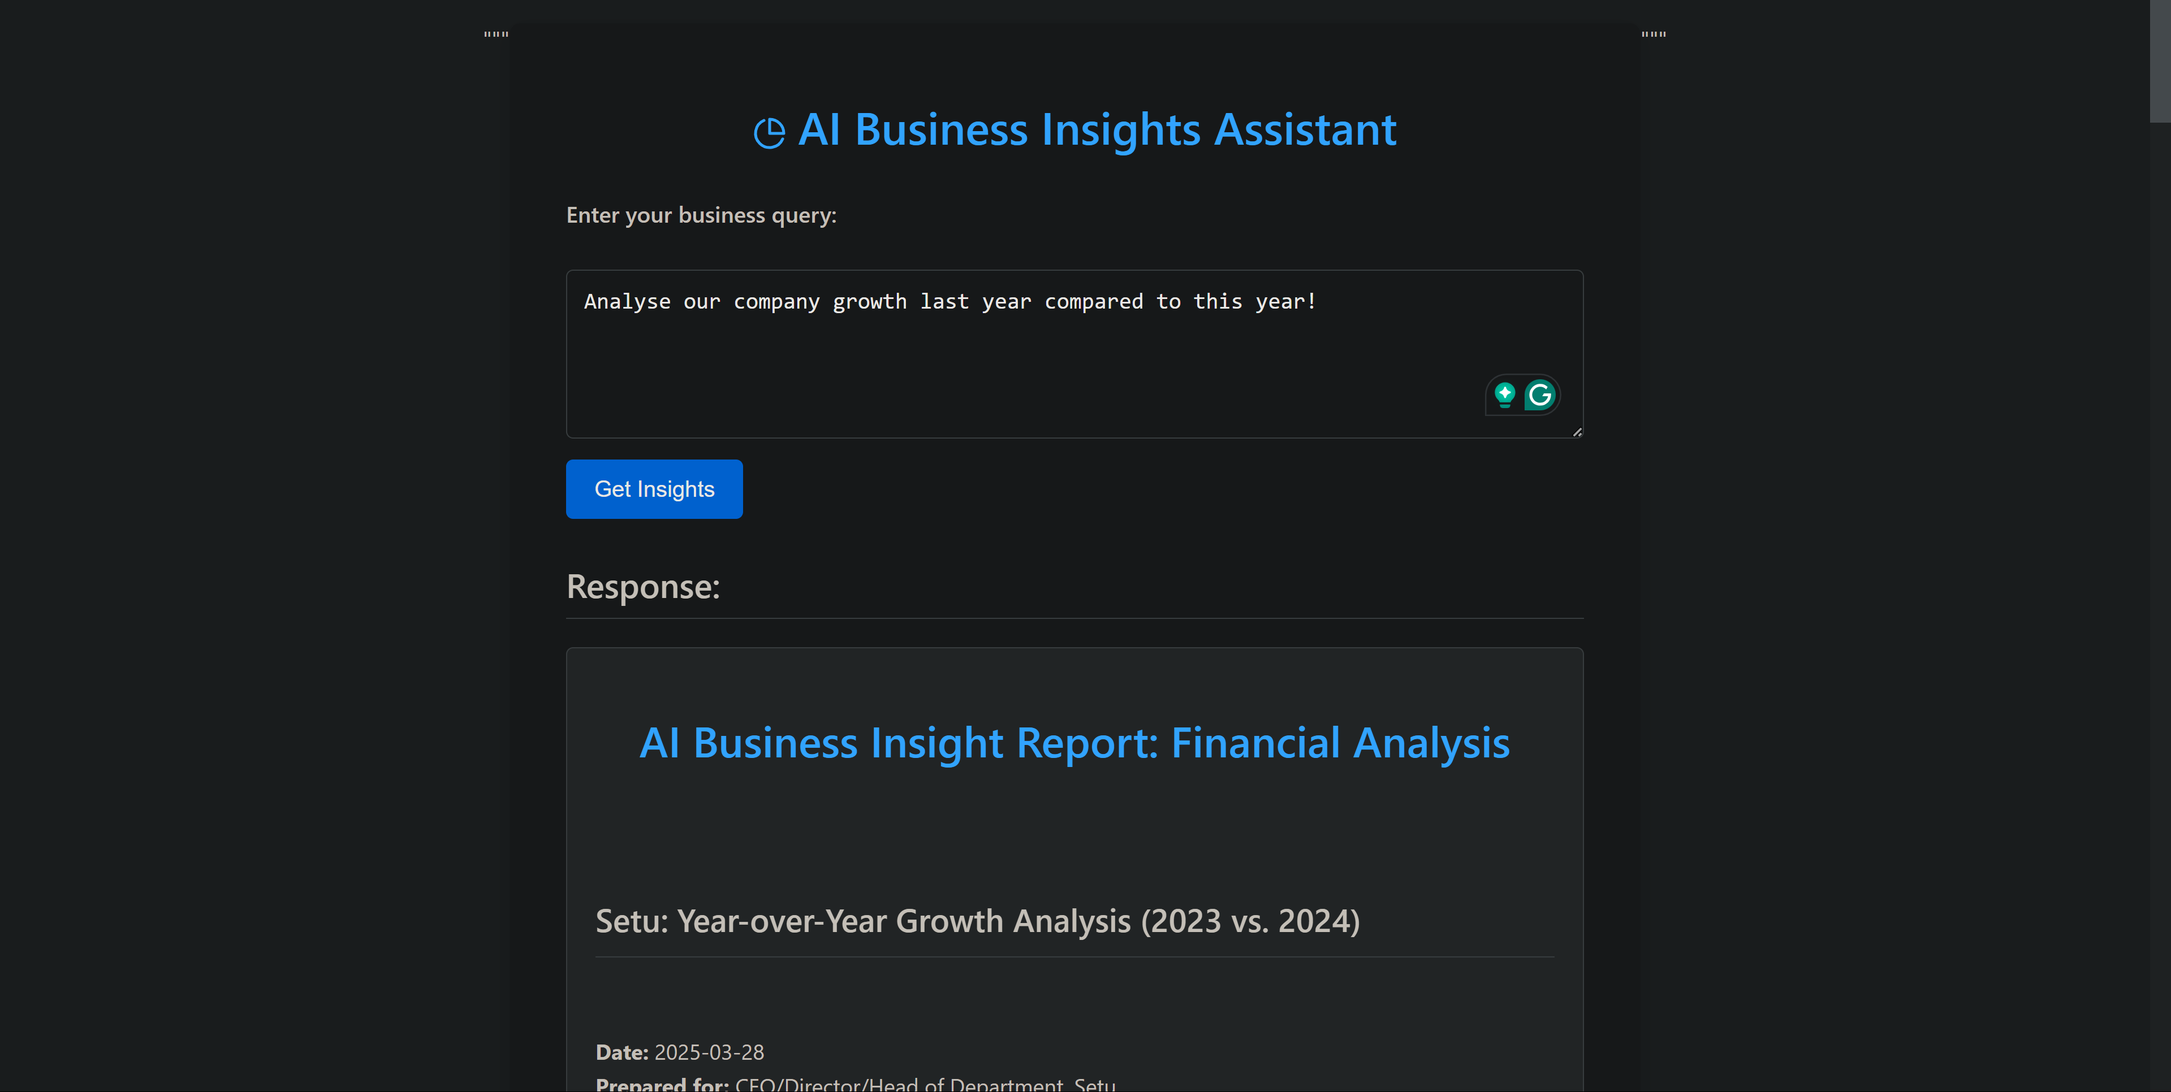
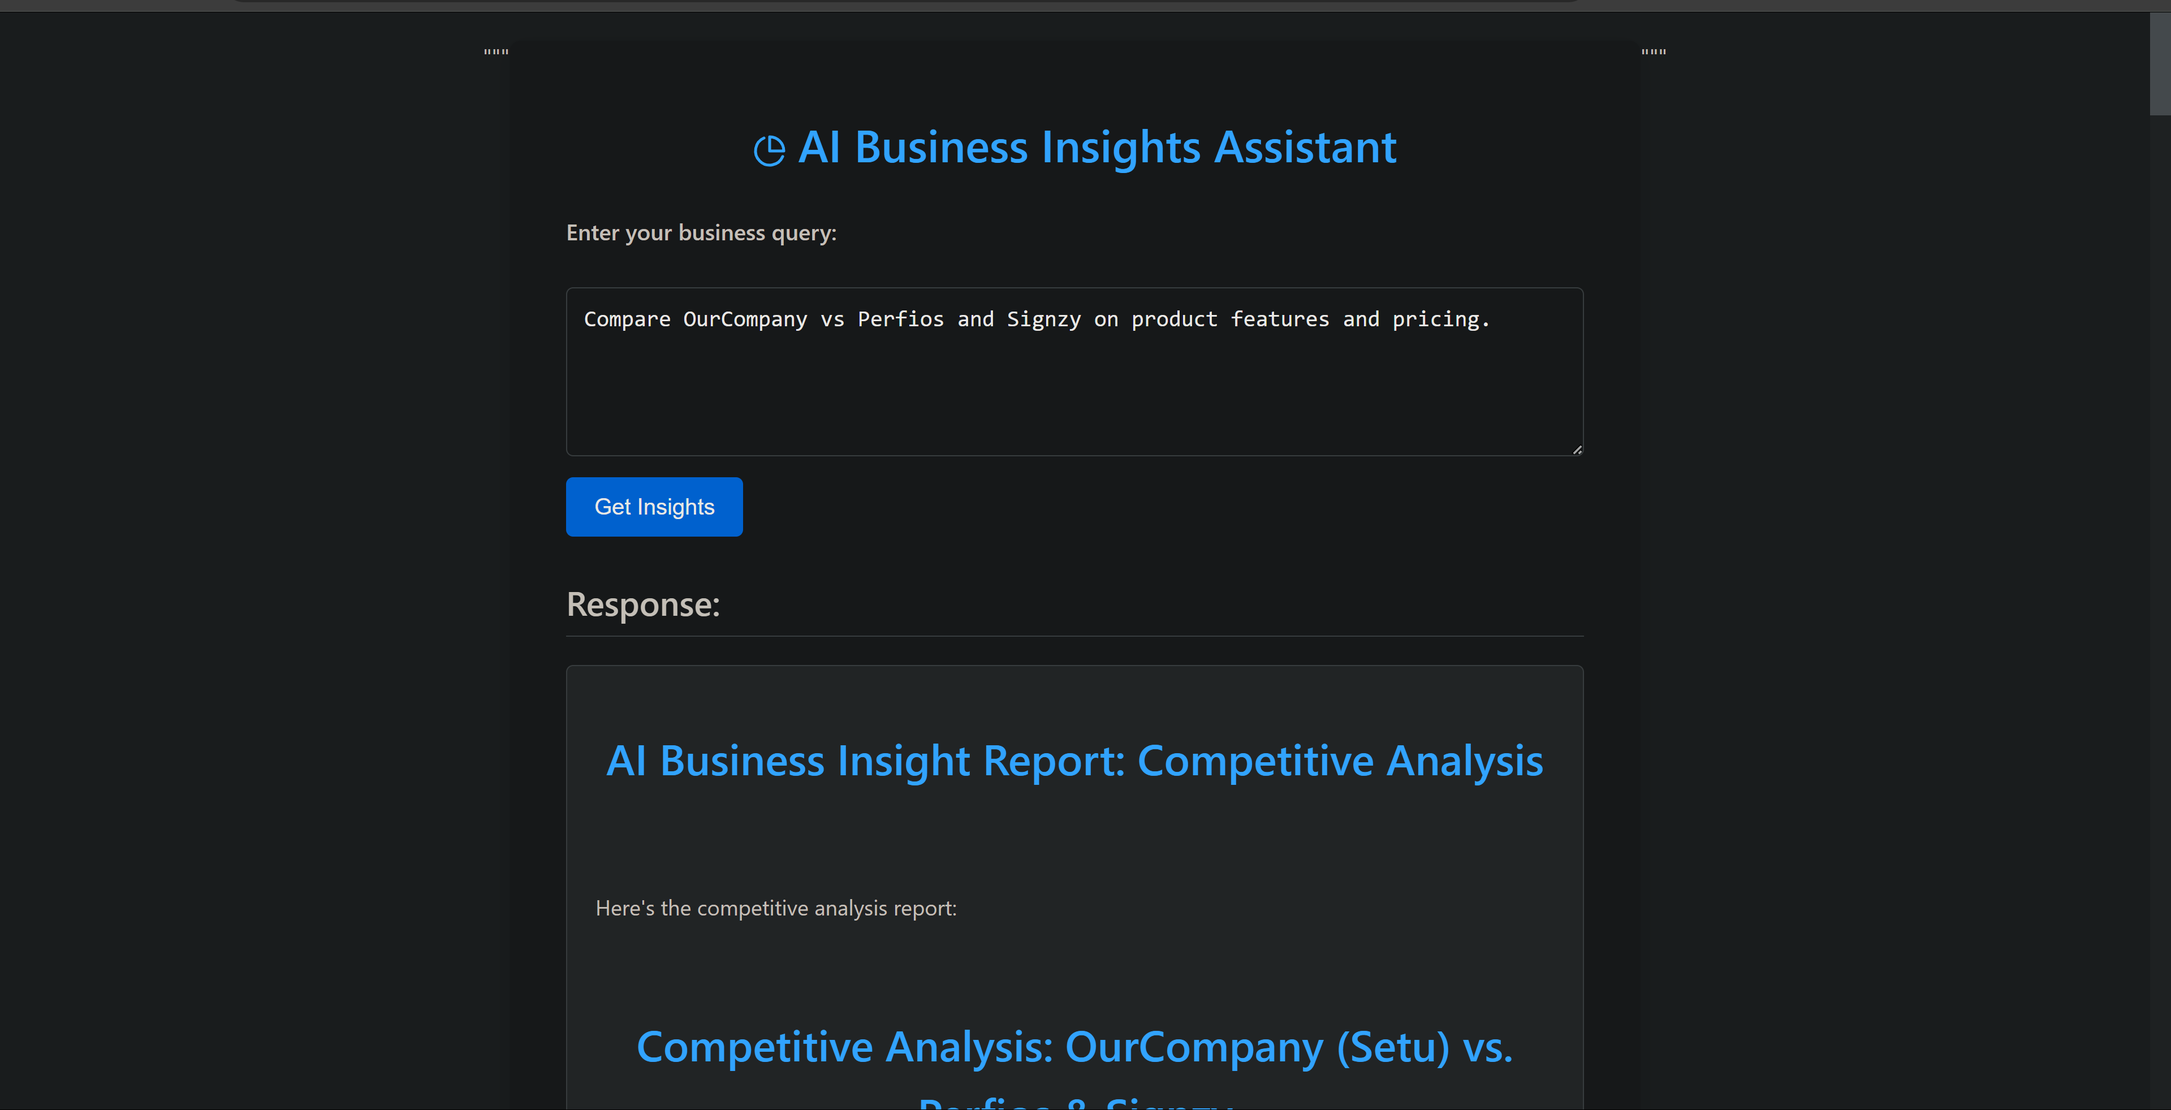
Update environment variables, add date to prompt analysis, and clean up test files

diff --git a/src/assistant/gemini_integration.py b/src/assistant/gemini_integration.py
@@ -54,7 +54,6 @@ class GeminiClient:
 
             if attempt < max_retries:
                 logger.info(f"Retrying Gemini call (attempt {attempt + 2}/{max_retries + 1})...")
-                # Optional: Add a small delay before retrying
                 # import time
                 # time.sleep(1)
             else:

diff --git a/src/assistant/prompt_engineering.py b/src/assistant/prompt_engineering.py
@@ -34,6 +34,8 @@ def get_query_analysis_prompt(query, business_profile):
     The assistant serves a mid-size enterprise with the following profile:
     {profile_str}
 
+    **DATE:** "{datetime.datetime.now().strftime('%Y-%m-%d')}"
+
     **User Query:**
     "{query}"
 

diff --git a/tests/test_gemini_integration.py b/tests/test_gemini_integration.py
@@ -1,0 +1,2 @@
+# src/test/test_gemini_intrgrition.py
+

diff --git a/tests/test_prompt_engineering.py b/tests/test_prompt_engineering.py
@@ -1,0 +1,1 @@
+# src/test/test_prompt_engineering.py

diff --git a/assets/business_insights_report.md b/assets/business_insights_report.md
@@ -1,87 +1,119 @@
-# AI Business Insight Report: Financial Analysis
+# AI Business Insight Report: Competitive Analysis
 
-## Setu: Year-over-Year Growth Analysis (2023 vs. 2024)
+Here's the competitive analysis report:
 
-**Date:** 2025-03-28
-**Prepared for:** CEO/Director/Head of Department, Setu
-**Prepared by:** Strategos, AI Business Insights Assistant
+# Competitive Analysis: OurCompany (Setu) vs. Perfios & Signzy
 
-### 1. Understanding the Query
+**Date:** 2025-03-29
 
-The user query requests an analysis of Setu's growth performance in the past year (2024) compared to the previous year (2023).  The objective is to understand the extent and nature of Setu's growth, identify areas of strength and weakness, and inform future strategic decisions. This analysis will consider financial performance, employee growth, and market trends within the financial services industry, especially concerning APIs and open banking.
+## Executive Summary
 
-### 2. Key Concepts
+OurCompany (Setu) faces strong competition from Perfios and Signzy in the financial services API space. Perfios boasts a broader product suite and larger market presence, while Signzy excels in automated onboarding and identity verification. Setu's strength lies in its payment infrastructure, particularly UPI, and Account Aggregator services. To thrive, Setu must focus on differentiating through superior UPI functionality, targeted niche markets, and potentially strategic partnerships. Key strategic recommendations involve expanding UPI offerings, bolstering customer support and onboarding, and exploring partnerships to broaden product capabilities.
 
-*   **Growth:**  Increase in key business metrics such as revenue, customer base, market share, employee count, and profitability.
-*   **Year-over-Year (YoY) Growth:** A comparison of a specific metric between one year and the previous year, expressed as a percentage.  It provides a clear indication of progress and trend.
-*   **Financial Services API:** Application Programming Interfaces that enable different financial systems to communicate and exchange data, facilitating innovation and efficiency.
-*   **Open Banking:** A system that allows customers to share their financial data securely with third-party providers, enabling personalized services and competition.
-*   **Account Aggregator (AA):** An entity licensed by the RBI to collect and consolidate financial information of a user from various financial institutions based on user consent.
-*   **UPI (Unified Payments Interface):** An instant real-time payment system developed by the National Payments Corporation of India (NPCI).
-*   **BBPS (Bharat Bill Payment System):** An integrated bill payment system in India offering interoperable and accessible bill payment service to customers.
+## Methodology
 
-### 3. Structured Analysis
+This analysis is based on publicly available information, including search results provided, general industry knowledge, and the provided business profile for OurCompany (Setu). Market share estimates are directional and based on available data, not proprietary information.
 
-Given the limited direct financial data available in the provided search results, this analysis will rely on broader industry trends and inferences based on Setu's business model and available information. A more detailed analysis would require access to Setu's internal financial records.
+## Competitor Profiles
 
-#### 3.1 Financial Performance
+### OurCompany (Setu)
 
-*   **Revenue Growth:**  Direct revenue figures for Setu in 2023 and 2024 are not available in the search results. However, the *Inc42* article mentions that in FY23, Setu spent INR 5.6 to earn every rupee. This indicates a potentially high cost of customer acquisition or operational inefficiencies in 2023.  A key question is whether this ratio improved in 2024.  Without more data, determining revenue growth is difficult. However, the broader fintech landscape offers some clues.
-    *   The *McKinsey* report indicates that the banking industry generated over $6.5 trillion in revenues in 2022 with year-over-year growth. This indicates a generally healthy market environment.
-    *   *BCG* reports that global payments revenue reached $1.6 trillion in 2022, but growth is expected to slow to 6.2% annually through 2027.
-*   **Market Share:** Assessing Setu's market share in the financial services API space is challenging without specific data. The API market is competitive.  The *Tracxn* profile notes that Setu has 659 competitors.
-*   **Account Aggregator Market:** The Account Aggregator market is experiencing strong growth. *Business Research Insights* forecasts a CAGR of 15.4% from 2024-2032, reaching $6.4 billion by 2032. This presents a significant opportunity for Setu, assuming it is active in this area.
-*   **UPI and BBPS Trends:** UPI transaction volume continues to see significant growth, with the *Financial Express* reporting a 56% YoY volume growth in H2 2023. The *digipay.gov.in* data shows consistent growth in BBPS transaction volume between 2022 and 2023. As a player in the financial services API sector, Setu would likely benefit from these trends.
+*   **Key Offerings & Target Market:** API solutions for financial onboarding (KYC, Aadhaar/PAN verification), Payment infrastructure (BBPS, UPI payment links), Account Aggregator services. Targets fintechs, banks, and businesses requiring embedded financial solutions.
+*   **Recent News/Developments:** Focus on UPI-powered mandates and BBPS platform [1][3]. Initiative for loan repayments and other API initiatives with banks.
+*   **Perceived Strengths:** Strong UPI infrastructure and integration [1][3]. Growing from 51-200 employees in 2020 to 201-500 currently [3][5] indicates growth.
+*   **Perceived Weaknesses:** Smaller size compared to Perfios. May lack the breadth of offerings and established reputation of competitors.
 
-**Challenges:**  The lack of specific financial data for Setu is a major limitation.  Reliance on industry trends provides a general context but does not offer a precise picture of Setu's performance.
+### Perfios
 
-#### 3.2 Employee Growth
+*   **Key Offerings & Target Market:** Financial data analysis software & tools, SME lending solutions, real-time credit decisioning, onboarding automation, due diligence, monitoring, and litigation automation. Targets financial institutions for decision-making and analytics.
+*   **Recent News/Developments:** Focus on adapting to market changes [1]. Expanding product offerings and maintaining a strong presence in the SaaS-based B2B fintech space [3].
+*   **Perceived Strengths:** Extensive product suite, large customer base (900+ FIs) [3], established market presence, strong financial data analysis capabilities [2].
+*   **Perceived Weaknesses:** Customer reviews are mixed, with some expressing concerns [2]. Potentially higher complexity due to the breadth of offerings.
 
-*   The initial business profile context indicates that Setu grew from 51-200 employees in 2020. Determining employee growth between 2023 and 2024 requires internal data. However, given the growth in the fintech and API space, it's reasonable to assume that Setu experienced some employee growth.
+### Signzy
 
-**Impact of Size:**  As a mid-size company (201-500 employees), Setu likely faces different challenges than larger corporations.  It needs to balance agility and innovation with the need for structured processes and scalability.
+*   **Key Offerings & Target Market:** Digital onboarding, identity verification, and monitoring solutions across 180+ countries. Targets financial institutions and businesses seeking to automate KYC/AML processes and streamline customer onboarding.
+*   **Recent News/Developments:** Emphasis on no-code GO platform for customizable workflows [3]. Focus on AI-powered solutions and real-time verification features [2].
+*   **Perceived Strengths:** Strong focus on digital onboarding and identity verification, AI-powered solutions, customizable workflows, and a no-code platform [3]. Real time verification [2].
+*   **Perceived Weaknesses:** Customer support reviews are mixed [1][2][3]. Potentially less comprehensive in areas outside of onboarding and identity verification.
 
-#### 3.3 Strategic and Operational Growth
+## Comparative Analysis
 
-*   **API Adoption:**  The *Finastra* survey shows high enthusiasm for technological change in the financial services industry, indicating a favorable environment for API adoption. *McKinsey* notes that becoming proficient with APIs is a top objective for most banks.
-*   **Open Banking Growth:** The *Grand View Research* report forecasts a CAGR of 29.8% for the open banking market in India from 2024-2030. This indicates a significant opportunity for Setu to expand its offerings and customer base.
-*   **Regulatory Landscape:**  The *Business Standard* highlights several regulatory changes in India in 2023. Setu needs to adapt to evolving regulations, such as those related to data privacy and security. The *Grant Thornton* report also points out the impact of the DPDP Act 2023 on the financial services sector.
-*   **D91 Labs:** Setu's association with D91 Labs, an open-source initiative, suggests a commitment to financial inclusion and innovation.  This can be a competitive advantage by providing insights and solutions tailored to the Indian market.
+**Product Features & Innovation Pace:** Perfios offers the broadest range of features, covering financial data analysis, lending solutions, and automation. Signzy specializes in digital onboarding and identity verification, leveraging AI. Setu excels in UPI infrastructure and BBPS. Innovation pace appears high across all three, with Perfios focused on adapting to market changes, Signzy on AI-driven solutions, and Setu on enhancing its UPI offerings.
 
-**Challenges:**  Competition in the API and open banking space is intense.  Setu needs to differentiate its offerings and demonstrate clear value to customers. Adapting to regulatory changes can be costly and time-consuming.
+**Pricing Tiers & Value Proposition:** Perfios and Signzy offer subscription-based pricing models, with Perfios emphasizing customized pricing based on business needs. Setu's pricing is not explicitly detailed in the provided search results but likely follows a similar API-based model. Perfios' value proposition centers on comprehensive financial data management, Signzy's on streamlined onboarding, and Setu's on reliable UPI infrastructure and payment solutions.
 
-### 4.  Mid-Size Enterprise Context
+**Go-to-Market Strategy (Sales channels, Marketing approach):** Perfios targets large financial institutions through direct sales and partnerships. Signzy focuses on a broader market, including fintechs, with an emphasis on API integration and a no-code platform. Setu's strategy appears to involve partnerships with banks and fintechs to integrate its UPI and BBPS solutions.
 
-For a mid-size company like Setu, the following considerations are particularly relevant:
+**Customer Reviews & Brand Perception:** Perfios has mixed customer reviews, with some concerns raised [2]. Signzy also has mixed customer reviews [1][2][3]. The provided search results do not offer direct customer reviews for Setu.
 
-*   **Resource Allocation:**  Growth requires careful allocation of resources. Setu needs to prioritize investments in areas with the highest potential return, such as API development, customer acquisition, and compliance.
-*   **Scalability:**  As Setu grows, it needs to ensure that its infrastructure and processes can scale efficiently. This includes investing in technology, training employees, and optimizing operations.
-*   **Talent Acquisition:**  Attracting and retaining skilled employees is crucial for success. Setu needs to offer competitive compensation and benefits, as well as opportunities for professional development.
-*   **Strategic Partnerships:**  Collaborating with other companies can help Setu expand its reach and capabilities. This could include partnerships with banks, fintech companies, or technology providers.
+**Estimated Market Share / Position:** Perfios likely holds a larger market share due to its established presence and broader product suite. Signzy is a strong player in the digital onboarding space. Setu is growing rapidly but is still smaller than its competitors.
 
-### 5. Actionable Recommendations
+## SWOT Analysis (Derived)
 
-Based on the analysis, here are some actionable recommendations for Setu:
+**Strengths:**
 
-1.  **Conduct Internal Growth Analysis:**  Perform a detailed analysis of Setu's financial performance, employee growth, and customer acquisition costs for 2023 and 2024.  Identify key drivers of growth and areas for improvement. This is the most crucial step.
-2.  **Refine Market Positioning:**  Given the competitive landscape, clearly define Setu's target market and value proposition. Focus on specific niches within the financial services API space where Setu can differentiate itself.
-3.  **Invest in API Development:**  Continue to invest in developing innovative and user-friendly APIs that meet the evolving needs of customers.  Focus on areas such as open banking, account aggregation, and payment solutions.
-4.  **Strengthen Regulatory Compliance:**  Stay up-to-date on regulatory changes and ensure that Setu's operations are fully compliant. Invest in compliance training and technology.
-5.  **Leverage D91 Labs:**  Utilize the insights and resources from D91 Labs to develop financial inclusion solutions tailored to the Indian market. This can be a key differentiator.
-6.  **Monitor Key Performance Indicators (KPIs):** Track the following KPIs to measure Setu's growth and performance:
-    *   **Revenue Growth Rate:**  Percentage increase in revenue from 2023 to 2024.
-    *   **Customer Acquisition Cost (CAC):**  Cost of acquiring a new customer.
-    *   **Customer Lifetime Value (CLTV):**  Projected revenue generated by a customer over their relationship with Setu.
-    *   **API Usage Rate:**  Number of API calls per customer per month.
-    *   **Employee Growth Rate:** Percentage increase in employee count from 2023 to 2024.
-    *   **Market Share:**  Estimate Setu's market share in key segments of the financial services API market.
-7. **Explore Strategic Partnerships:** Identify and pursue strategic partnerships with complementary businesses to expand market reach and service offerings. This can be instrumental for a mid-sized company to compete effectively.
+*   Strong UPI infrastructure and integration.
+*   Growing company with a focus on fintech solutions.
 
-**Considerations:**
+**Weaknesses:**
 
-*   **Data Availability:**  The accuracy and completeness of this analysis are limited by the availability of data.  Access to Setu's internal financial records is essential for a more detailed and accurate assessment.
-*   **Market Volatility:**  The financial services industry is subject to rapid change and market volatility. Setu needs to be agile and adaptable to respond to changing conditions.
-*   **Competition:**  The API and open banking space is highly competitive. Setu needs to continuously innovate and differentiate itself to stay ahead of the competition.
+*   Smaller size and potentially limited resources compared to Perfios.
+*   Less comprehensive product suite than Perfios.
+*   Brand recognition may be lower than Perfios and Signzy.
+
+**Opportunities:**
+
+*   Expand UPI-based services and solutions.
+*   Focus on specific niche markets (e.g., embedded finance for specific industries).
+*   Leverage the Account Aggregator framework for data-driven services.
+*   Strategic partnerships to broaden product capabilities.
+
+**Threats:**
+
+*   Intense competition from larger, more established players like Perfios and Signzy.
+*   Rapid technological changes in the fintech space.
+*   Evolving regulatory landscape.
+
+## Strategic Differentiators & Actionable Recommendations
+
+To thrive against Perfios and Signzy, Setu needs to focus on differentiation and strategic growth:
+
+1.  **Enhance UPI Functionality & Offerings:**
+    *   **Action:** Develop advanced UPI features beyond basic payment links, such as recurring payments, mandate management, and integrated reconciliation tools.
+    *   **Rationale:** Leverage Setu's existing strength in UPI to create a clear differentiator.
+    *   **KPI:** Increase UPI transaction volume by 30% in the next year.
+
+2.  **Targeted Niche Markets:**
+    *   **Action:** Identify specific industries or use cases where Setu's API solutions can provide a unique value proposition (e.g., embedded finance for e-commerce platforms, automated payments for logistics companies).
+    *   **Rationale:** Avoid direct competition with Perfios and Signzy across their entire product range by focusing on specific verticals.
+    *   **KPI:** Secure 3-5 key clients in a target niche market within the next 6 months.
+
+3.  **Improve Customer Support & Onboarding:**
+    *   **Action:** Invest in improved documentation, dedicated support channels, and streamlined onboarding processes.
+    *   **Rationale:** Address a potential weakness and improve customer satisfaction.
+    *   **KPI:** Reduce customer support ticket resolution time by 20%.
+
+4.  **Strategic Partnerships:**
+    *   **Action:** Explore partnerships with companies offering complementary solutions to broaden Setu's product capabilities (e.g., a partnership with a KYC/AML provider to enhance onboarding solutions).
+    *   **Rationale:** Quickly expand product offerings without significant internal development costs.
+    *   **KPI:** Establish 1-2 strategic partnerships within the next year.
+
+5.  **Data-Driven Value Proposition:**
+    *   **Action:** Emphasize the value of data insights derived from Setu's Account Aggregator services, offering customized financial solutions.
+    *   **Rationale:** Capitalize on the Account Aggregator framework to create a competitive advantage.
+    *   **KPI:** Increase usage of Account Aggregator services by 40% in the next year.
+
+6.  **Pricing Strategy:**
+    *   **Action:** Re-evaluate pricing model in comparison to competitors to ensure value proposition is clear. Consider tiered pricing for various feature usage.
+    *   **Rationale:** Competitively priced services are important to entice customers.
+    *   **KPI:** Increase number of new customers by 20%.
+
+**Implementation Considerations:**
+
+*   **Resource Constraints:** As a mid-size company, Setu should prioritize initiatives that leverage existing strengths and require minimal upfront investment.
+*   **Phased Approach:** Implement these recommendations in a phased approach, starting with the most impactful and feasible initiatives.
+*   **Continuous Monitoring:** Regularly monitor progress against the identified KPIs and adjust the strategy as needed.
 
 
 ---
